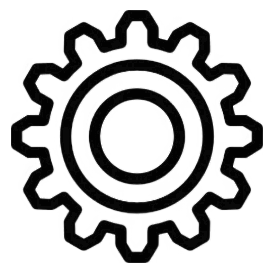
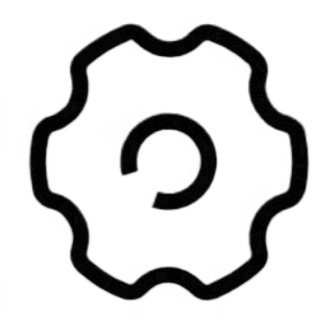
菜单整合

diff --git a/im-tool-ui/im-tool-ui-base/src/main/java/com/hoomoomoo/im/consts/MenuFunctionConfig.java b/im-tool-ui/im-tool-ui-base/src/main/java/com/hoomoomoo/im/consts/MenuFunctionConfig.java
@@ -12,14 +12,11 @@ public class MenuFunctionConfig {
 
         // TA菜单
         MENU_SVN("menuSvn", "SVN", 10, "svn"),
-        MENU_SCRIPT("menuScript", "脚本", 20, "sql"),
-        MENU_CODE("menuCode", "代码", 30, "code"),
-        MENU_HEP("menuHep", "效能", 40, "hep"),
-        MENU_SYSTEM("menuSystem", "高级", 50, "system"),
+        MENU_SCRIPT("menuCommon", "通用", 20, "common"),
+        MENU_SYSTEM("menuSystem", "定制", 50, "system"),
 
         // 公共菜单
-        MENU_SET("menuSet", "设置", 1000, "set"),
-        MENU_HELP("menuHelp", "帮助", 1100, "help");
+        MENU_SET("menuSet", "设置", 1000, "set");
 
         private String menuId;
 
@@ -72,32 +69,33 @@ public class MenuFunctionConfig {
 
         SVN_HISTORY_STAT("130", "历史统计", "/conf/fxml/svnHistoryStat.fxml", "svnHistoryStat", "svnHistoryStat", "menuSvn", "用户信息,统计用户,历史统计"),
 
-        SCRIPT_UPDATE("200", "升级脚本", "/conf/fxml/scriptUpdate.fxml", "scriptUpdate", "scriptUpdate", "menuScript", "升级脚本"),
+        SCRIPT_UPDATE("200", "升级脚本", "/conf/fxml/scriptUpdate.fxml", "scriptUpdate", "scriptUpdate", "menuCommon", "升级脚本"),
 
-        PROCESS_INFO("210", "流程信息", "/conf/fxml/processInfo.fxml", "processInfo", "processInfo", "menuScript", "流程信息"),
+        PROCESS_INFO("210", "流程信息", "/conf/fxml/processInfo.fxml", "processInfo", "processInfo", "menuCommon", "流程信息"),
 
-        FUND_INFO("220", "基金信息", "/conf/fxml/fundInfo.fxml", "fundInfo", "fundInfo", "menuScript", "基金信息"),
+        FUND_INFO("220", "基金信息", "/conf/fxml/fundInfo.fxml", "fundInfo", "fundInfo", "menuCommon", "基金信息"),
 
-        DATABASE_SCRIPT("230", "执行脚本", "/conf/fxml/databaseScript.fxml", "databaseScript", "databaseScript", "menuScript", "执行脚本"),
+        DATABASE_SCRIPT("230", "执行脚本", "/conf/fxml/databaseScript.fxml", "databaseScript", "databaseScript", "menuCommon", "执行脚本"),
 
-        GENERATE_SQL("240", "分库分表", "/conf/fxml/generateSql.fxml", "generateSql", "generateSql", "menuScript", "分库分表"),
+        GENERATE_SQL("240", "分库分表", "/conf/fxml/generateSql.fxml", "generateSql", "generateSql", "menuCommon", "分库分表"),
 
-        COPY_CODE("300", "复制代码", "/conf/fxml/copyCode.fxml", "copyCode", "copyCode", "menuCode", "复制代码"),
+        COPY_CODE("300", "复制代码", "/conf/fxml/copyCode.fxml", "copyCode", "copyCode", "menuCommon", "复制代码"),
 
-        //GENERATE_CODE("310", "生成代码", "/conf/fxml/generateCode.fxml", "generateCode", "generateCode", "menuCode", "生成代码"),
+        //GENERATE_CODE("310", "生成代码", "/conf/fxml/generateCode.fxml", "generateCode", "generateCode", "menuCommon", "生成代码"),
 
-        TASK_TODO("400", "待开发任务", "/conf/fxml/hepTaskTodo.fxml", "hepTaskTodo", "hepTaskTodo", "menuHep", "待开发任务"),
+        TASK_TODO("400", "待开发任务", "/conf/fxml/hepTaskTodo.fxml", "hepTaskTodo", "hepTaskTodo", "menuSystem", "待开发任务"),
 
-        SYSTEM_TOOL("500", "便捷工具", "/conf/fxml/systemTool.fxml", "systemTool", "systemTool", "menuSystem", "便捷工具"),
+        SYSTEM_TOOL("500", "高级工具", "/conf/fxml/systemTool.fxml", "systemTool", "systemTool", "menuSystem", "高级工具"),
 
-        CHANGE_FUNCTION_TOOL("600", "功能切换", "/conf/fxml/changeFunctionTool.fxml", "changeFunctionTool", "changeFunctionTool", "menuSystem", "功能切换"),
+        CHANGE_FUNCTION_TOOL("600", "版本切换", "/conf/fxml/changeFunctionTool.fxml", "changeFunctionTool", "changeFunctionTool", "menuSystem", "版本切换"),
 
         // 公共组件 3000-9999
-        FUNCTION_STAT_INFO("3000", "使用统计", "/conf/fxml/functionStatInfo.fxml", "functionStatInfo", "functionStatInfo", "menuHelp", ""),
+        CONFIG_SET("9999", "参数设置", "/conf/fxml/configSet.fxml", "configSet", "configSet", "menuSet", "应用信息"),
 
-        ABOUT_INFO("3100", "关于", "/conf/fxml/aboutInfo.fxml", "aboutInfo", "aboutInfo", "menuHelp", ""),
+        FUNCTION_STAT_INFO("3000", "使用统计", "/conf/fxml/functionStatInfo.fxml", "functionStatInfo", "functionStatInfo", "menuSet", ""),
 
-        CONFIG_SET("9999", "参数设置", "/conf/fxml/configSet.fxml", "configSet", "configSet", "menuSet", "应用信息");
+        ABOUT_INFO("3100", "关于", "/conf/fxml/aboutInfo.fxml", "aboutInfo", "aboutInfo", "menuSet", "");
+
 
         private String code;
 

diff --git a/im-tool-ui/im-tool-ui-ta/src/main/java/com/hoomoomoo/im/controller/HepTodoController.java b/im-tool-ui/im-tool-ui-ta/src/main/java/com/hoomoomoo/im/controller/HepTodoController.java
@@ -89,6 +89,8 @@ public class HepTodoController extends BaseController implements Initializable {
 
     public final static String OPERATE_TYPE_CUSTOM_UPDATE = "update";
 
+    public final static String DEFAULT_TAG = "分支已提交";
+
     private Map<String, String> color = new LinkedHashMap<String, String>(){{
         put("完成日期错误", "-fx-text-background-color: #ff0073;");
         put("今日待提交", "-fx-text-background-color: #ff0000;");
@@ -215,6 +217,9 @@ public class HepTodoController extends BaseController implements Initializable {
     @FXML
     private RadioButton only;
 
+    @FXML
+    private RadioButton devComplete;
+
     private Pane mask;
 
     private static Map<String, Integer> minDateCache = new HashMap<>();
@@ -223,6 +228,7 @@ public class HepTodoController extends BaseController implements Initializable {
     void selectAll(ActionEvent event) throws Exception {
         OutputUtils.selected(all, true);
         OutputUtils.selected(only, false);
+        OutputUtils.selected(devComplete, false);
         if (event != null) {
             executeQuery(null);
         }
@@ -231,6 +237,17 @@ public class HepTodoController extends BaseController implements Initializable {
     @FXML
     void selectOnly(ActionEvent event) throws Exception {
         OutputUtils.selected(only, true);
+        OutputUtils.selected(all, false);
+        OutputUtils.selected(devComplete, false);
+        if (event != null) {
+            executeQuery(null);
+        }
+    }
+
+    @FXML
+    void selectDevComplete(ActionEvent event) throws Exception {
+        OutputUtils.selected(devComplete, true);
+        OutputUtils.selected(only, false);
         OutputUtils.selected(all, false);
         if (event != null) {
             executeQuery(null);
@@ -760,6 +777,11 @@ public class HepTodoController extends BaseController implements Initializable {
                     continue;
                 }
                 existTask.add(taskName);
+            } else if (devComplete.isSelected()) {
+                if (taskName.contains(DEFAULT_TAG) && !taskName.contains("【缺陷:")) {
+                    iterator.remove();
+                    continue;
+                }
             }
 
             String status = item.getStatus();
@@ -1061,6 +1083,11 @@ public class HepTodoController extends BaseController implements Initializable {
             String taskName = item.getName();
             if (taskName.contains(STR_BRACKETS_3_RIGHT)) {
                 String taskNameTmp = taskName.substring(taskName.indexOf(STR_BRACKETS_3_LEFT) + 1, taskName.indexOf(STR_BRACKETS_3_RIGHT));
+                if (taskNameTmp.contains(DEFAULT_TAG)) {
+                    if (!tags.containsKey(DEFAULT_TAG)) {
+                        tags.put(DEFAULT_TAG, DEFAULT_TAG);
+                    }
+                }
                 if (taskNameTmp.contains("缺陷") || taskName.startsWith(STR_BRACKETS_3_LEFT)) {
                     if (taskNameTmp.contains(STR_COLON)) {
                         taskNameTmp = taskNameTmp.split(STR_COLON)[0];
@@ -1332,7 +1359,7 @@ public class HepTodoController extends BaseController implements Initializable {
                 only.setSelected(true);
             } else {
                 JvmCache.setHepTodoController(this);
-                all.setSelected(true);
+                devComplete.setSelected(true);
             }
             addTaskMenu(appConfigDto);
             executeQuery(null);

diff --git a/im-tool-ui/im-tool-ui-base/src/main/java/com/hoomoomoo/im/consts/BaseConst.java b/im-tool-ui/im-tool-ui-base/src/main/java/com/hoomoomoo/im/consts/BaseConst.java
@@ -338,7 +338,7 @@ public class BaseConst {
     public static final String FACTORY_ICON = "/conf/image/factory.png";
     public static final String COPY_ICON = "/conf/image/copy.png";
     public static final String COPY_SIMPLE_ICON = "/conf/image/copySimple.png";
-    public static final String SCRIPT_ICON = "/conf/image/sql.png";
+    public static final String ABSTRACT_ICON = "/conf/image/abstract.png";
     public static final String TASK_NO_ICON = "/conf/image/code.png";
     public static final String UPDATE_ICON = "/conf/image/update.png";
     public static final String DETAIL_ICON = "/conf/image/detail.png";

diff --git a/im-tool-ui/im-tool-ui-ta/src/main/java/com/hoomoomoo/im/extend/HepWaitHandleTaskMenu.java b/im-tool-ui/im-tool-ui-ta/src/main/java/com/hoomoomoo/im/extend/HepWaitHandleTaskMenu.java
@@ -69,7 +69,7 @@ public class HepWaitHandleTaskMenu extends ContextMenu {
         });
 
         MenuItem menuScript = new MenuItem(NAME_MENU_SCRIPT);
-        CommonUtils.setIcon(menuScript, SCRIPT_ICON, MENUITEM_ICON_SIZE);
+        CommonUtils.setIcon(menuScript, ABSTRACT_ICON, MENUITEM_ICON_SIZE);
         menuScript.setOnAction(new EventHandler<ActionEvent>() {
             @SneakyThrows
             @Override
